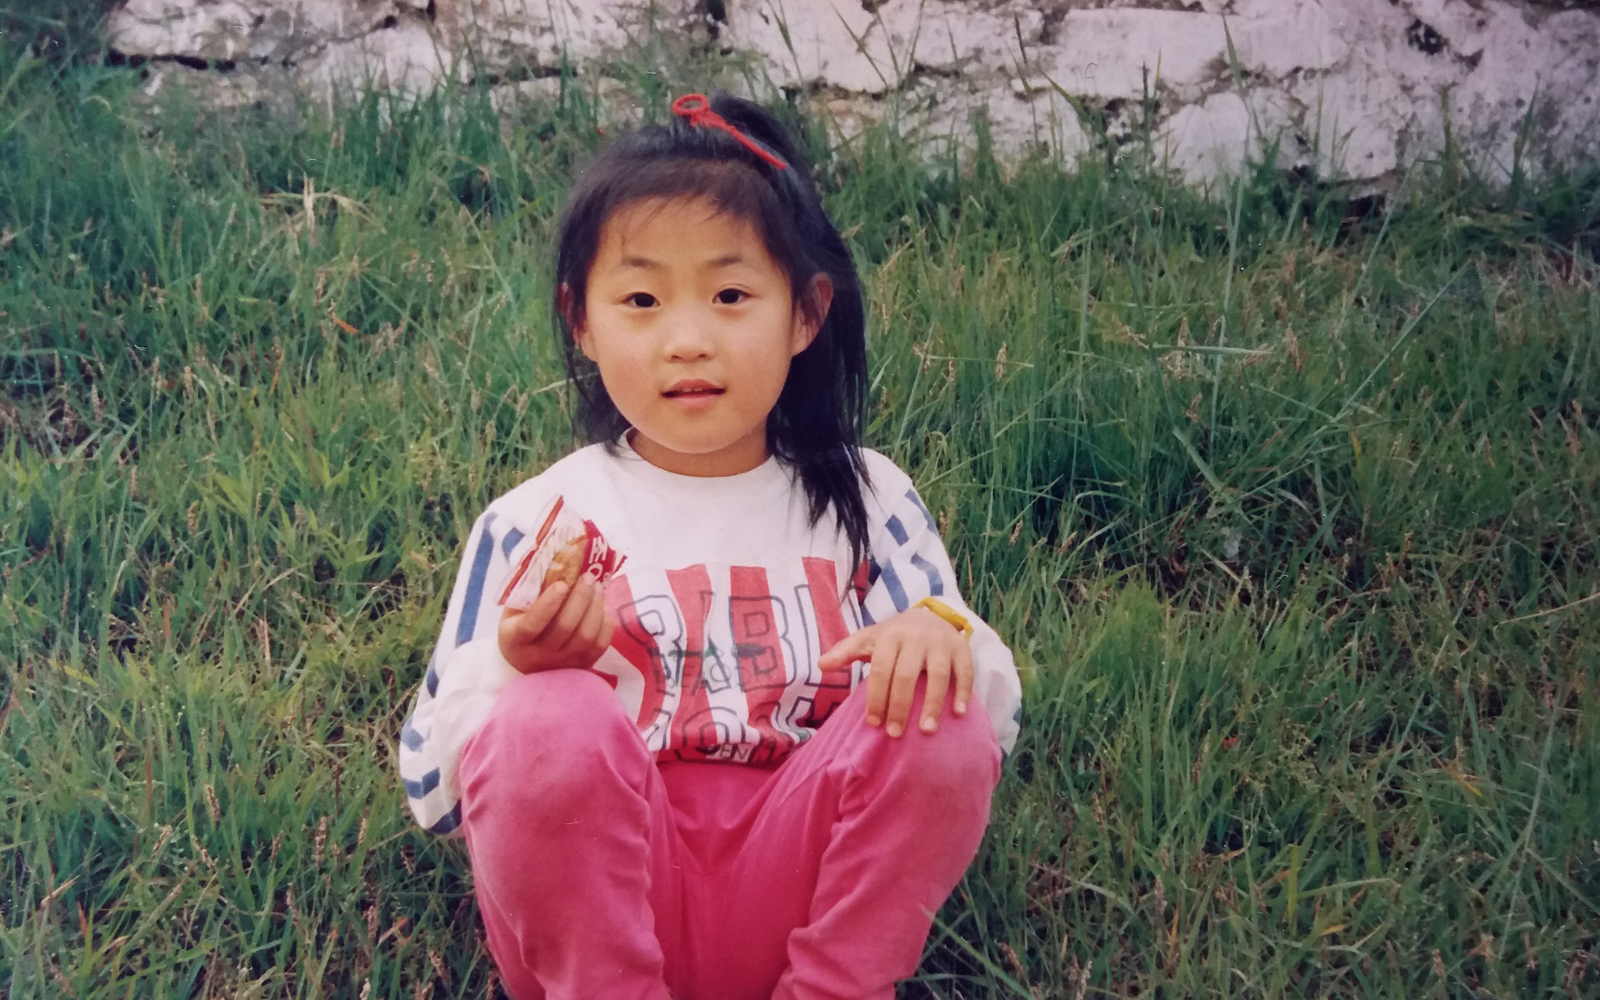
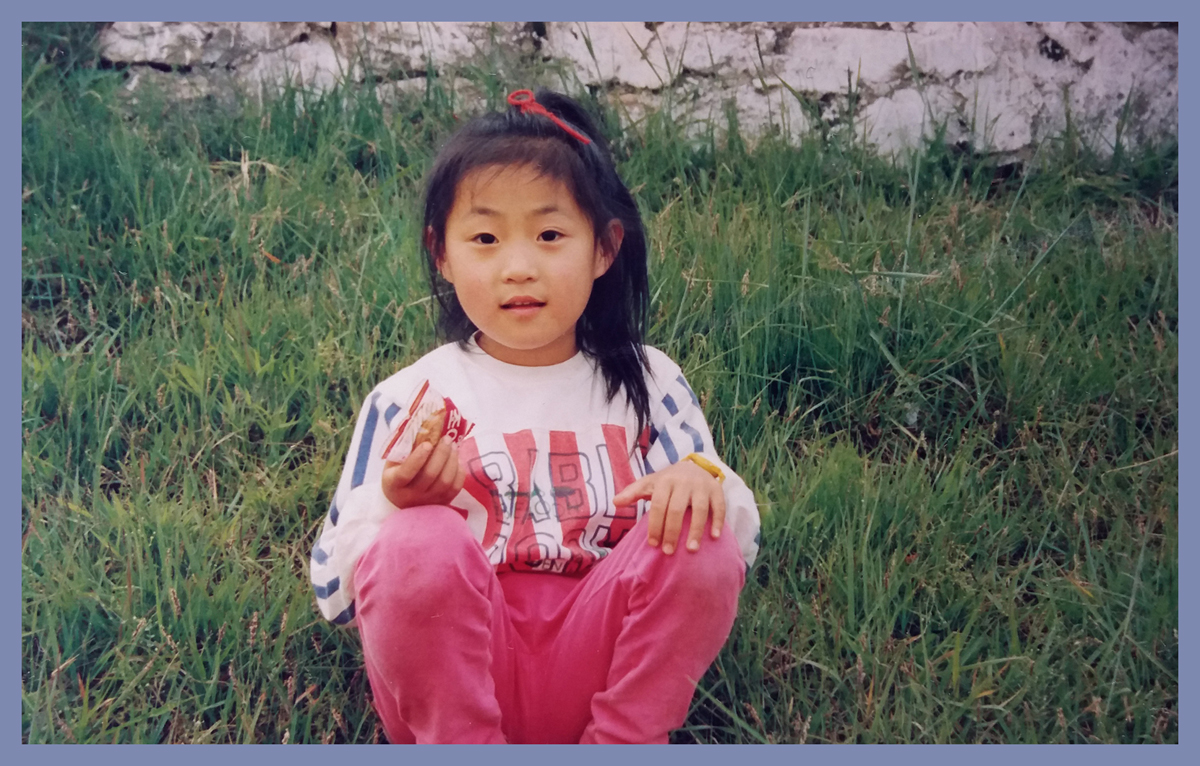
Added borders on gallery images

diff --git a/style.css b/style.css
@@ -177,11 +177,11 @@ nav i {
 }
 
 #prevBtn {
-	left: 3%;
+	left: 4%;
 }
 
 #nextBtn {	
-	right: 1%;	
+	right: 2%;	
 }
 
 #prevBtn:hover, #nextBtn:hover {
@@ -195,13 +195,13 @@ nav i {
 	opacity: 0.4;	
 	border: none;	
 	background-color: transparent;	
-	font-size: 1.9rem;
+	font-size: 1.8rem;
 	cursor: pointer;
 	text-decoration: none;	
 	outline: none;
 	position: absolute;
-	top: 5%;
-	left: 3%;
+	top: 7%;
+	left: 4.5%;
 }
 
 #pauseBtn {
@@ -210,7 +210,7 @@ nav i {
 
 #playBtn:hover, #pauseBtn:hover {
 	opacity: 1;	
-	font-size: 2rem;
+	font-size: 1.9rem;
 	text-shadow: 1px 1px 3px black;
 }
 
